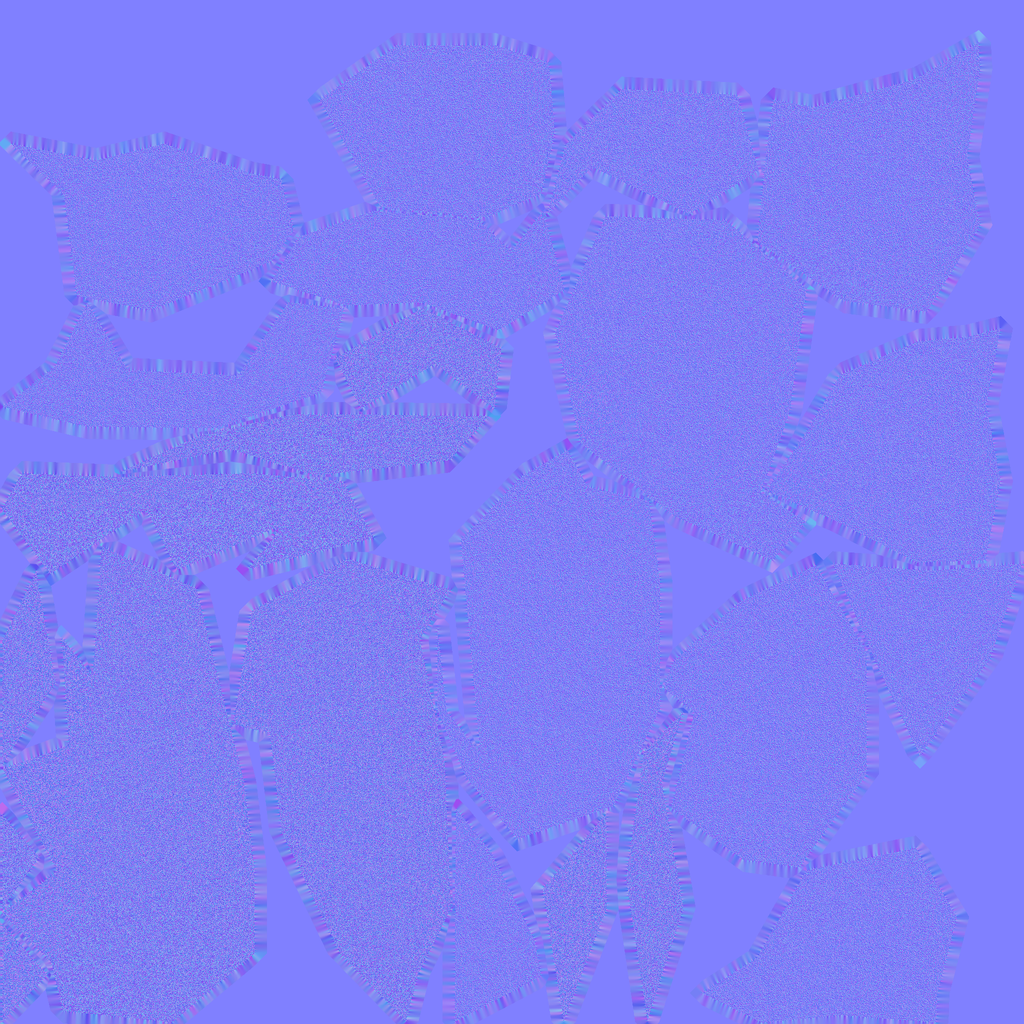
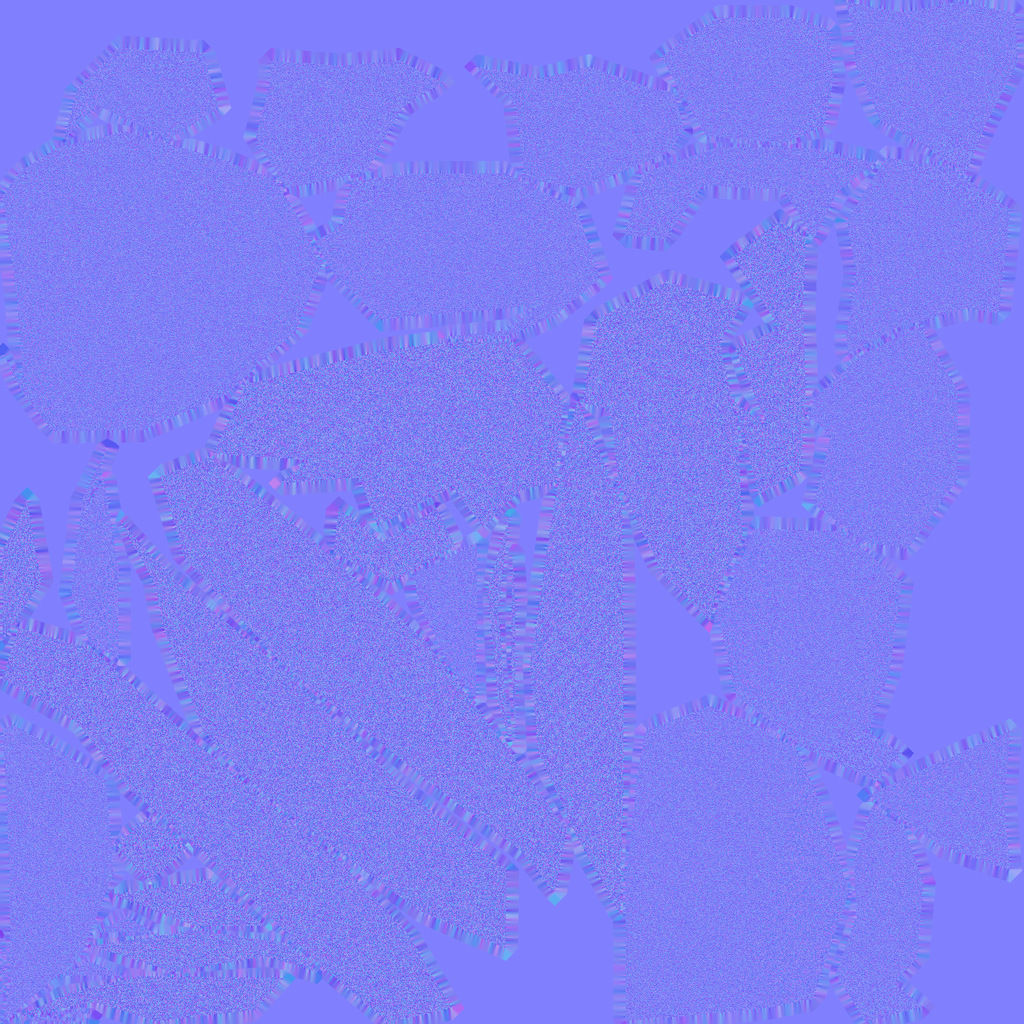
Break rock out of the steep ground
Cliffs were the thing the mountain was missing: every steep face was
smooth snow, because the only rock in the world was boulders sitting on
top of the ground.

Two new shapes in the rock set. A slab is a bedded block with a flat top,
cut level rather than squashed flat, because squashing a sphere gives a
lens and cutting one gives something you could stand on. A spire is the
tooth left when the rock either side of it went.

They go out in bands: several slabs laid along one contour, the odd tooth
above, all of it sunk by a share of its own measured height so the rock
comes out of the mountain instead of resting on it. Bands only look for
ground steeper than thirty-two degrees and give up rather than settle for
flat. They share the boulders' batches, so the whole map of them costs no
extra draw call, and their colliders share two cooked hulls.

Also: benches, bins, snow piles and fence panels now take the tilt of the
ground under them. A fence panel laid level across a fall line has one end
buried and the other in the air, which is exactly what was happening.
Lamp posts and signs stay upright, because those are dug in.

Claude-Session: https://claude.ai/code/session_01JXk8ivzC5T7tJVmJeq6s57

diff --git a/Assets/Scripts/Mountain/MountainProps.cs b/Assets/Scripts/Mountain/MountainProps.cs
@@ -48,6 +48,14 @@ namespace SnowBound.Mountain
         public float minRockSize = 1.5f;
         public float maxRockSize = 5f;
 
+        [Header("Cliffs")]
+        [Tooltip("Bands of bedded rock on the steep ground. A band is several\nslabs laid along the contour, not one boulder made big.")]
+        public int cliffBands = 34;
+        [Tooltip("How steep the ground has to be before the rock breaks through.")]
+        public float minCliffSlopeDeg = 32f;
+        [Tooltip("Width of a slab in the band, in metres.")]
+        public float cliffSize = 7f;
+
         [Header("Piste edge markers")]
         public float markerSpacing = 25f;
 
@@ -498,8 +506,153 @@ namespace SnowBound.Mountain
                 collider.convex = true;
             }
 
+            SpawnCliffs(rocks, settled, colliders.transform, unit, modelled);
+
             rocks.Flush();
             settled.Flush();
+        }
+
+        // ---------------- cliffs -----------------------------------------
+
+        /// <summary>
+        /// Bands of bedded rock on the steep ground.
+        ///
+        /// A cliff is not a big boulder. What reads as a cliff is a line of
+        /// flat-topped slabs following one contour — the bed that broke —
+        /// with the odd tooth left standing above it, all of it half buried
+        /// so the rock comes out of the mountain instead of sitting on it.
+        ///
+        /// It shares the boulders' batches, so a whole map of cliffs is not
+        /// one extra draw call.
+        /// </summary>
+        void SpawnCliffs(MeshBatcher rocks, MeshBatcher settled, Transform colliders,
+                         float unit, bool modelled)
+        {
+            if (!modelled || cliffBands <= 0) return;
+
+            HeroAssets.Piece slab = HeroAssets.Geometry(HeroAssets.Rocks, "RockSlab");
+            HeroAssets.Piece spire = HeroAssets.Geometry(HeroAssets.Rocks, "RockSpire");
+            if (slab == null || spire == null) return;
+
+            Mesh slabHull = HeroAssets.Shape(HeroAssets.Rocks, "RockSlab");
+            Mesh spireHull = HeroAssets.Shape(HeroAssets.Rocks, "RockSpire");
+
+            float halfW = mountain.width * 0.5f;
+
+            for (int band = 0; band < cliffBands; band++)
+            {
+                // Find somewhere steep. Give up on a band rather than settle
+                // for flat ground: a cliff in a meadow is worse than no cliff.
+                float x = 0f, z = 0f;
+                Vector3 normal = Vector3.up;
+                bool found = false;
+
+                for (int attempt = 0; attempt < 40 && !found; attempt++)
+                {
+                    x = Rand(-halfW + 20f, halfW - 20f);
+                    z = Rand(30f, mountain.length - 30f);
+
+                    if (mountain.OnAnyTrail(x, z, cliffSize)) continue;
+
+                    normal = mountain.SampleNormal(x, z);
+                    found = Vector3.Angle(normal, Vector3.up) >= minCliffSlopeDeg;
+                }
+
+                if (!found) continue;
+
+                // Along the contour, not down the fall line. Rock breaks along
+                // the bed, and the bed is level.
+                Vector3 fall = Vector3.ProjectOnPlane(-normal, Vector3.up);
+                if (fall.sqrMagnitude < 0.0001f) continue;
+
+                Vector3 contour = Vector3.Cross(Vector3.up, fall.normalized).normalized;
+
+                int pieces = _rnd.Next(3, 7);
+                float step = cliffSize * Rand(0.62f, 0.82f);
+                float start = -(pieces - 1) * 0.5f * step;
+
+                for (int i = 0; i < pieces; i++)
+                {
+                    float along = start + i * step;
+
+                    // The band wanders off its line a little, so it is a band
+                    // and not a wall.
+                    Vector3 drift = fall.normalized * Rand(-cliffSize * 0.35f, cliffSize * 0.35f);
+                    float px = x + contour.x * along + drift.x;
+                    float pz = z + contour.z * along + drift.z;
+
+                    if (mountain.OnAnyTrail(px, pz, 3f)) continue;
+
+                    Vector3 groundNormal = mountain.SampleNormal(px, pz);
+                    if (Vector3.Angle(groundNormal, Vector3.up) < minCliffSlopeDeg * 0.7f) continue;
+
+                    float h = mountain.SampleHeight(px, pz);
+                    bool tooth = _rnd.NextDouble() < 0.22;
+
+                    HeroAssets.Piece piece = tooth ? spire : slab;
+                    Mesh hull = tooth ? spireHull : slabHull;
+
+                    float size = cliffSize * Rand(0.72f, 1.30f) * (tooth ? 0.65f : 1f);
+                    var scale = new Vector3(size * Rand(0.9f, 1.15f), size * Rand(0.85f, 1.2f),
+                                            size * Rand(0.9f, 1.15f));
+
+                    // Bedded into the slope: the slab lies with the hill, and
+                    // most of its depth is under the surface.
+                    Quaternion bed = Quaternion.Slerp(Quaternion.identity,
+                                                      Quaternion.FromToRotation(Vector3.up, groundNormal),
+                                                      Rand(0.55f, 0.95f));
+
+                    float yaw = Mathf.Atan2(-contour.z, contour.x) * Mathf.Rad2Deg + Rand(-16f, 16f);
+                    Quaternion rotation = bed * Quaternion.Euler(Rand(-8f, 8f), yaw, Rand(-8f, 8f));
+
+                    // Half buried, measured off the model rather than guessed:
+                    // a slab is sunk most of its thickness, a tooth only its
+                    // foot, because a tooth is what is left standing.
+                    float height = LocalHeight(piece) * scale.y * unit;
+                    float sink = height * (tooth ? Rand(0.16f, 0.28f) : Rand(0.30f, 0.52f));
+                    var position = new Vector3(px, h - sink, pz);
+
+                    var placement = Matrix4x4.TRS(position, rotation, scale * unit);
+                    rocks.Add(piece.vertices, piece.triangles, 0, placement, piece.uvs);
+
+                    // Snow lies on the top of a slab, level, but only on the
+                    // ones that are lying down — nothing settles on a tooth.
+                    if (!tooth && Vector3.Angle(rotation * Vector3.up, Vector3.up) < 34f)
+                    {
+                        var capped = Matrix4x4.TRS(position + Vector3.up * height * 0.26f,
+                                                   Quaternion.Euler(0f, yaw, 0f),
+                                                   new Vector3(scale.x * 0.9f, scale.y * 0.55f,
+                                                               scale.z * 0.9f) * unit);
+                        settled.Add(piece.vertices, piece.triangles, 0, capped);
+                    }
+
+                    if (hull == null) continue;
+
+                    var hit = new GameObject(tooth ? "CliffTooth" : "CliffSlab");
+                    hit.transform.SetParent(colliders, false);
+                    hit.transform.SetPositionAndRotation(position, rotation);
+                    hit.transform.localScale = scale * unit;
+
+                    var collider = hit.AddComponent<MeshCollider>();
+                    collider.sharedMesh = hull;
+                    collider.convex = true;
+                }
+            }
+        }
+
+        /// <summary>How tall one piece of geometry is in its own space.</summary>
+        static float LocalHeight(HeroAssets.Piece piece)
+        {
+            float low = float.MaxValue, high = float.MinValue;
+
+            for (int i = 0; i < piece.vertices.Count; i++)
+            {
+                float y = piece.vertices[i].y;
+                if (y < low) low = y;
+                if (y > high) high = y;
+            }
+
+            return high > low ? high - low : 1f;
         }
 
         /// <summary>

diff --git a/Assets/Scripts/Resort/ResortDressing.cs b/Assets/Scripts/Resort/ResortDressing.cs
@@ -99,15 +99,32 @@ namespace SnowBound.Resort
 
         HeroAssets.Piece Piece(string part) { return HeroAssets.Geometry(HeroAssets.Props, part); }
 
-        /// <summary>Stand one prop on the snow, turned to face a direction.</summary>
+        /// <summary>
+        /// Stand one prop on the snow, turned to face a direction.
+        ///
+        /// `bed` is how much of the ground's own tilt the prop takes. A bench
+        /// or a fence panel lies with the hill — level on a slope it has one
+        /// end in the air and the other buried — while a lamp post and a sign
+        /// are dug in upright whatever the ground under them is doing, so they
+        /// pass nought.
+        /// </summary>
         void Place(MeshBatcher batch, HeroAssets.Piece piece, Vector3 at, float yaw,
-                   float scale = 1f)
+                   float scale = 1f, float bed = 0f)
         {
             if (piece == null) return;
 
+            Quaternion lie = Quaternion.Euler(0f, yaw, 0f);
+
+            if (bed > 0f)
+            {
+                Quaternion slope = Quaternion.FromToRotation(
+                    Vector3.up, mountain.SampleNormal(at.x, at.z));
+                lie = Quaternion.Slerp(Quaternion.identity, slope, Mathf.Clamp01(bed)) * lie;
+            }
+
             var placement = Matrix4x4.TRS(
                 new Vector3(at.x, mountain.SampleHeight(at.x, at.z) - 0.04f, at.z),
-                Quaternion.Euler(0f, yaw, 0f), Vector3.one * scale);
+                lie, Vector3.one * scale);
 
             batch.Add(piece.vertices, piece.triangles, 0, placement, piece.uvs);
         }
@@ -136,8 +153,8 @@ namespace SnowBound.Resort
 
             foreach (Vector3 seat in seats)
             {
-                Place(batch, bench, door + turn * seat, yaw + (seat.z > 6f ? 0f : 180f));
-                Place(batch, bin, door + turn * (seat + new Vector3(1.4f, 0f, 0.2f)), yaw);
+                Place(batch, bench, door + turn * seat, yaw + (seat.z > 6f ? 0f : 180f), 1f, 0.7f);
+                Place(batch, bin, door + turn * (seat + new Vector3(1.4f, 0f, 0.2f)), yaw, 1f, 0.7f);
             }
 
             var lamps = new[] { new Vector3(-8f, 0f, 2f), new Vector3(8f, 0f, 2f),
@@ -152,7 +169,7 @@ namespace SnowBound.Resort
                                 new Vector3(-11f, 0f, 17f) };
 
             for (int i = 0; i < heaps.Length; i++)
-                Place(batch, pile, door + turn * heaps[i], yaw + i * 47f, 0.8f + i * 0.25f);
+                Place(batch, pile, door + turn * heaps[i], yaw + i * 47f, 0.8f + i * 0.25f, 0.9f);
         }
 
         /// <summary>A board at the top of every run, facing the way down it.</summary>
@@ -220,7 +237,7 @@ namespace SnowBound.Resort
 
                         if (lip - out_ < fenceDrop) continue;
 
-                        Place(batch, panel, edge, yaw);
+                        Place(batch, panel, edge, yaw, 1f, 1f);
                         placed++;
                     }
                 }

diff --git a/tools/modelgen/pieces/rocks.py b/tools/modelgen/pieces/rocks.py
@@ -27,10 +27,19 @@ NAME = "Rocks"
 SIZE = 2.0
 
 SHAPES = [
-    # tag, subdivisions, fracture planes, roughness of the break, squash
-    ("A", 2, 8, 0.30, (1.00, 0.86, 0.72)),
-    ("B", 2, 6, 0.42, (1.15, 0.62, 0.95)),
-    ("C", 2, 9, 0.26, (0.86, 0.94, 1.10)),
+    # tag, subdivisions, fracture planes, roughness of the break, squash, bedding
+    ("A", 2, 8, 0.30, (1.00, 0.86, 0.72), 0.0),
+    ("B", 2, 6, 0.42, (1.15, 0.62, 0.95), 0.0),
+    ("C", 2, 9, 0.26, (0.86, 0.94, 1.10), 0.0),
+
+    # The two that are not boulders. A slab is what a cliff band is made of
+    # — broad, flat-topped, bedded — and a spire is the tooth left standing
+    # when the rock either side of it went. Both are stood on steep ground at
+    # several times this size and buried to the waist, which is how an
+    # outcrop reads: rock coming out of the mountain rather than sitting on
+    # top of it.
+    ("Slab", 2, 7, 0.12, (1.60, 1.25, 1.00), 0.21),
+    ("Spire", 2, 8, 0.22, (0.74, 0.82, 1.95), 0.0),
 ]
 
 
@@ -41,19 +50,27 @@ def materials():
     }
 
 
-def boulder(tag, subdivisions, planes, break_up, squash, mat, rnd):
+def boulder(tag, subdivisions, planes, break_up, squash, bedding, mat, rnd):
     """
     An icosphere cut back to a set of random planes.
 
     Every vertex is pulled in to whichever plane it is outside of, which
     is what a rock that has split off a cliff actually is: a lump bounded
     by the surfaces it broke along.
+
+    `bedding`, when set, adds two level cuts that distance above and below
+    the middle. Squashing a sphere flat gives a lens; cutting it flat gives
+    a slab with a top you can stand on, which is what a bedded rock is.
     """
     bpy.ops.mesh.primitive_ico_sphere_add(subdivisions=subdivisions, radius=SIZE * 0.5)
     ob = bpy.context.object
     ob.name = "Rock" + tag
 
     cuts = []
+    if bedding:
+        cuts.append(((0.0, 0.0, 1.0), bedding))
+        cuts.append(((0.0, 0.0, -1.0), bedding))
+
     for _ in range(planes):
         direction = (rnd.uniform(-1, 1), rnd.uniform(-1, 1), rnd.uniform(-1, 1))
         length = math.sqrt(sum(c * c for c in direction)) or 1.0
@@ -90,9 +107,9 @@ def build(mats=None):
     rnd = random.Random(4242)
     parts = []
 
-    for i, (tag, subdivisions, planes, break_up, squash) in enumerate(SHAPES):
-        mat = mats['granite'] if i != 1 else mats['darker']
-        rock = boulder(tag, subdivisions, planes, break_up, squash, mat, rnd)
+    for i, (tag, subdivisions, planes, break_up, squash, bedding) in enumerate(SHAPES):
+        mat = mats['darker'] if i in (1, 4) else mats['granite']
+        rock = boulder(tag, subdivisions, planes, break_up, squash, bedding, mat, rnd)
 
         # Sat on the ground and spread out, for the unwrap and the picture.
         low = min(v.co.z for v in rock.data.vertices)

diff --git a/Assets/Scripts/Core/HeroAssets.cs b/Assets/Scripts/Core/HeroAssets.cs
@@ -154,6 +154,25 @@ namespace SnowBound.Core
             return piece.Valid ? piece : null;
         }
 
+        /// <summary>
+        /// The shared mesh of one named part, straight off the prefab.
+        ///
+        /// Geometry() copies the mesh because a batcher needs the numbers;
+        /// a collider only needs to point at one, and pointing every cliff
+        /// at the same mesh means the hull is cooked once.
+        /// </summary>
+        public static Mesh Shape(string folder, string part)
+        {
+            GameObject prefab = Prefab(folder);
+            if (prefab == null) return null;
+
+            Transform found = Part(prefab.transform, part);
+            if (found == null) return null;
+
+            var filter = found.GetComponent<MeshFilter>();
+            return filter != null ? filter.sharedMesh : null;
+        }
+
         static readonly Dictionary<string, Mesh> Welded = new Dictionary<string, Mesh>();
 
         /// <summary>

diff --git a/Assets/Scripts/Player/PlayerVisual.cs b/Assets/Scripts/Player/PlayerVisual.cs
@@ -220,6 +220,10 @@ namespace SnowBound.Player
 
             if (onSnow && !_seated)
             {
+                // Slip is measured along the rider's right, so it is positive
+                // in a left-hand turn, and a positive roll tips them right.
+                // Negating it is what puts the lean into the turn instead of
+                // out of it.
                 lean = Mathf.Clamp(-slip * leanPerSlip, -maxLean, maxLean);
                 crouch = Mathf.Clamp01(speed / Mathf.Max(1f, fastSpeed));
                 tuck = grounded ? 0f : 1f;

diff --git a/tools/modelgen/check.py b/tools/modelgen/check.py
@@ -51,7 +51,7 @@ EXPECTED = {
 
 PARTS = {
     "Trees": ["TreeA", "TreeB", "TreeC", "SnowA", "SnowB", "SnowC"],
-    "Rocks": ["RockA", "RockB", "RockC"],
+    "Rocks": ["RockA", "RockB", "RockC", "RockSlab", "RockSpire"],
     "ParkFeatures": ["Kicker", "Box", "Rail", "Leg"],
     "Flora": ["ShrubA", "SnowShrubA", "ShrubB", "Fallen", "SnowFallen", "Stump"],
     "ResortProps": ["Bench", "Bin", "Lamp", "Sign", "Fence", "Pile"],
